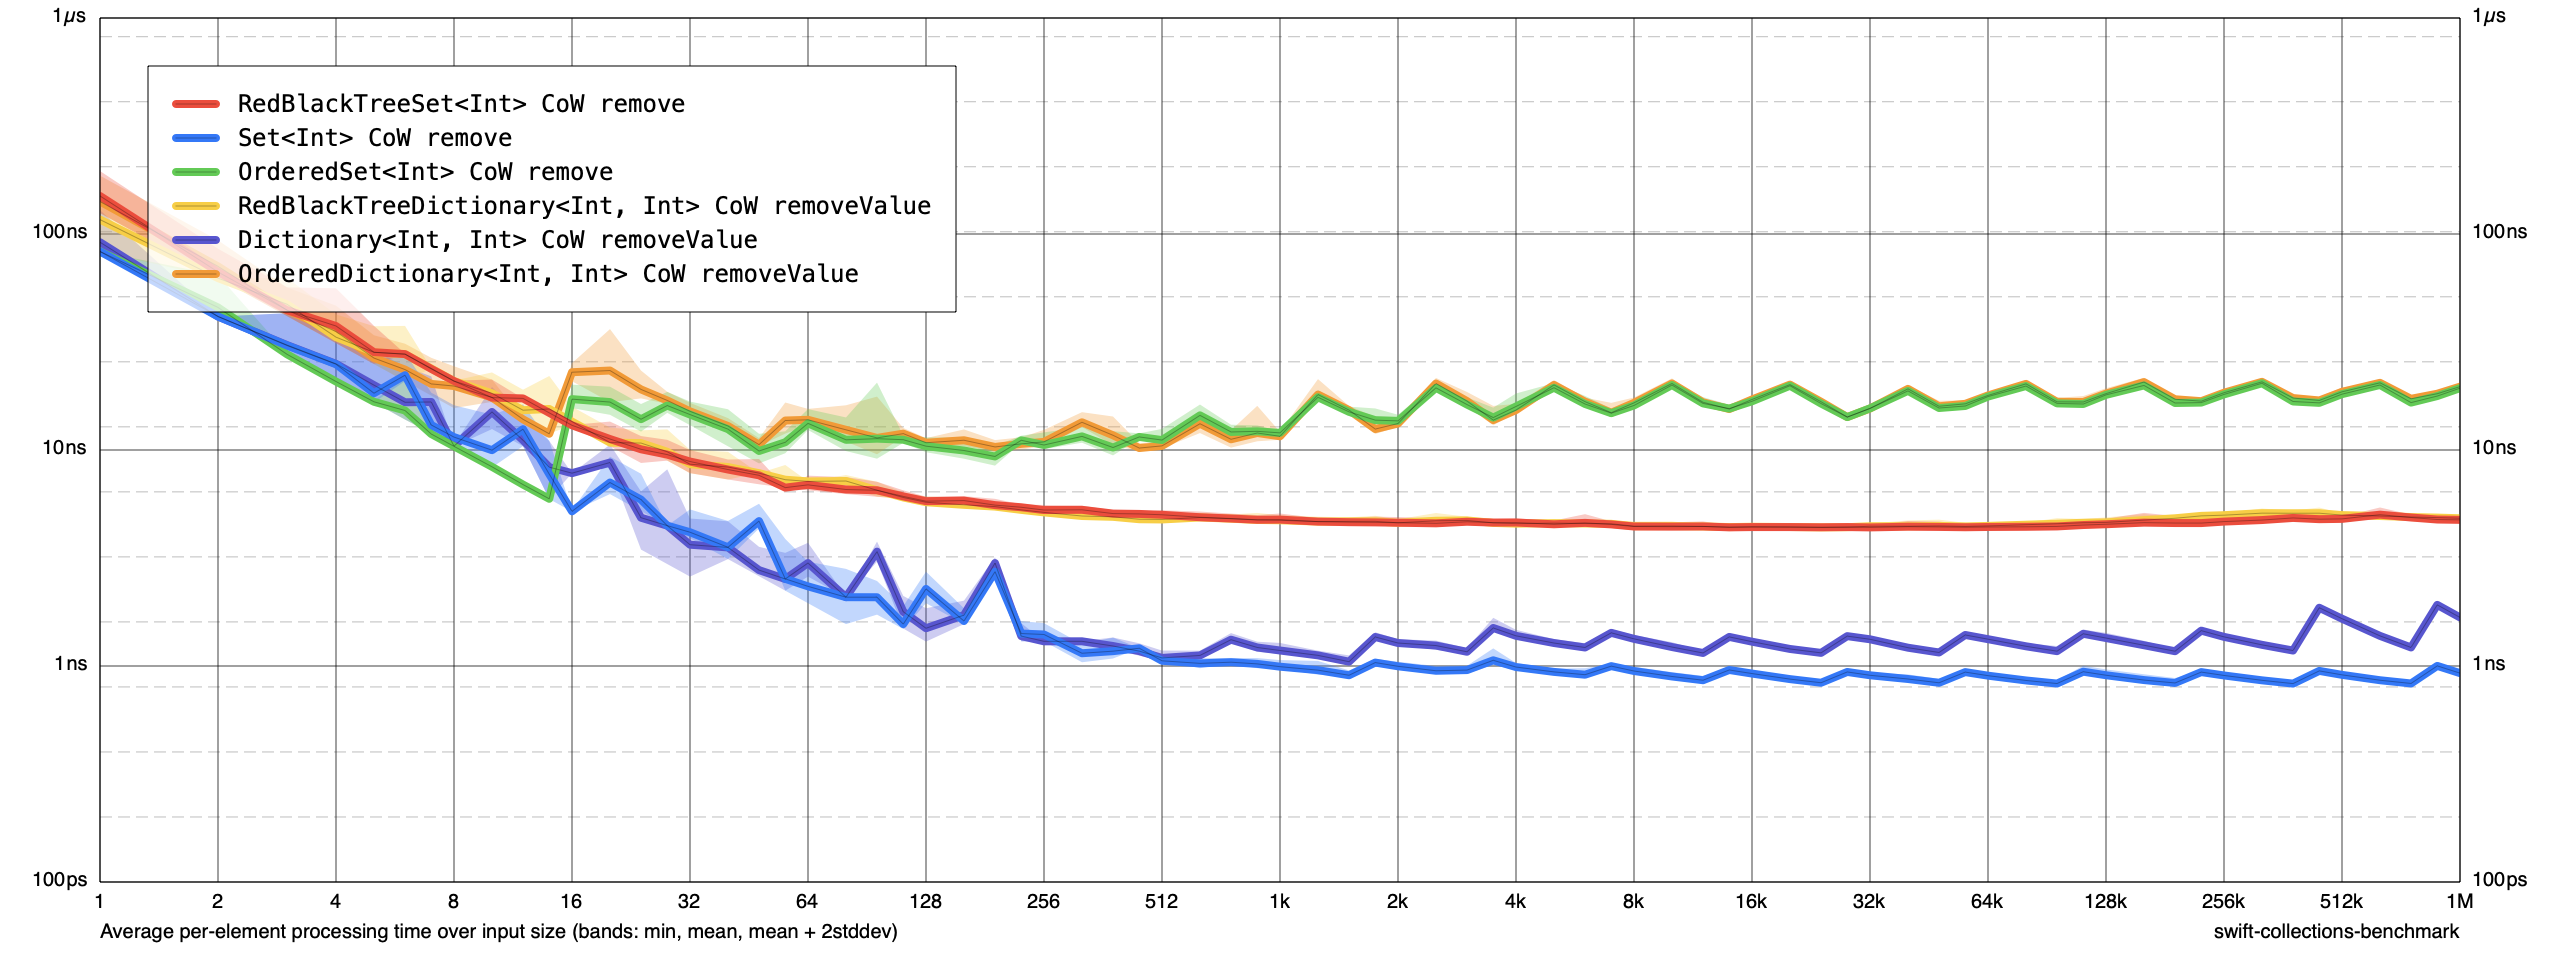
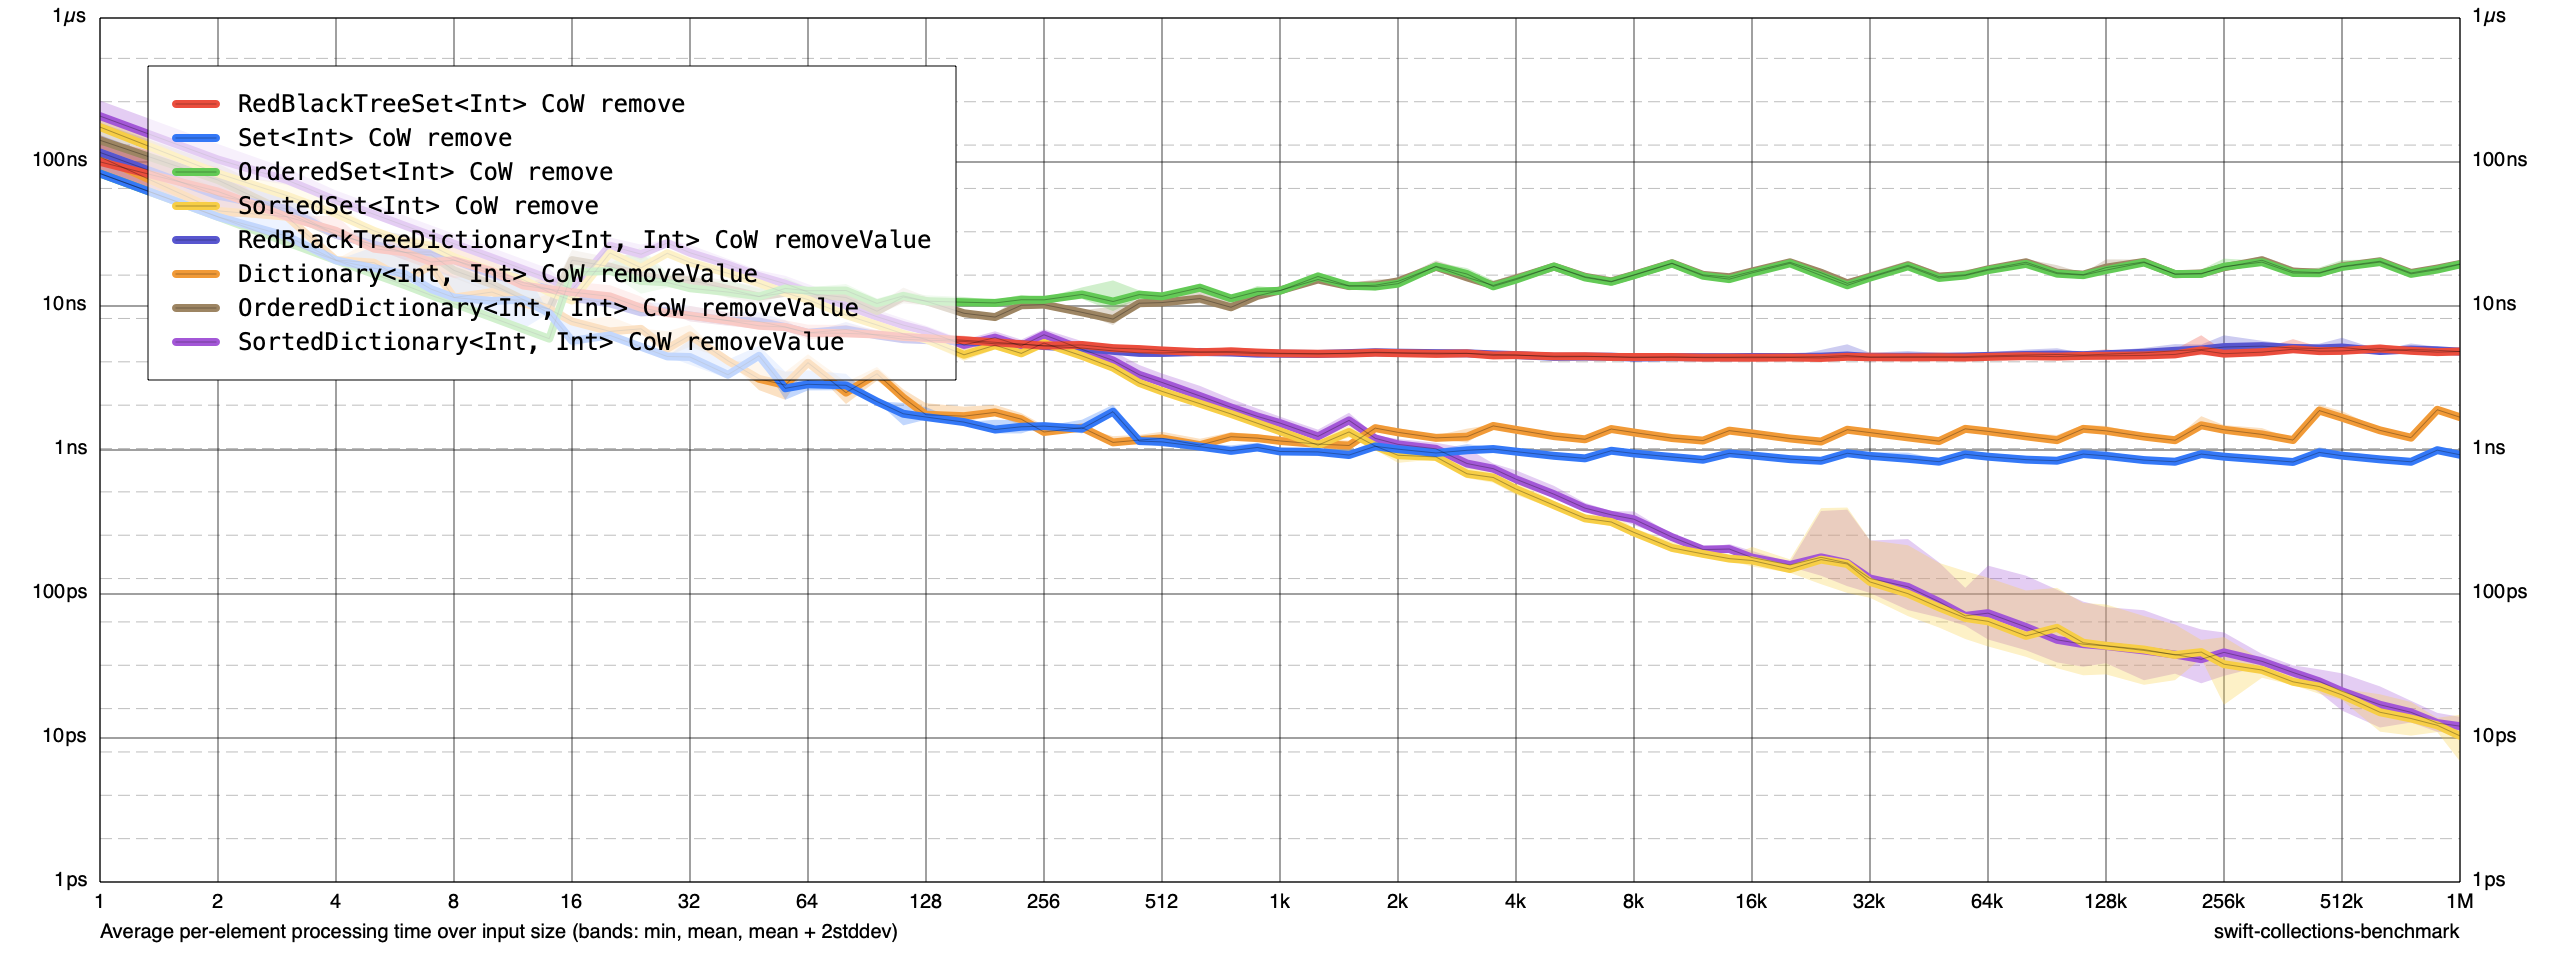
benchmark

diff --git a/Tests/CollectionBenchmarks/CollectionBenchmark10/main.swift b/Tests/CollectionBenchmarks/CollectionBenchmark10/main.swift
@@ -100,6 +100,35 @@ benchmark.add(
   }
 }
 
+benchmark.add(
+  title: "SortedSet<Int> CoW remove",
+  input: Int.self
+) { size in
+
+  return { timer in
+
+    let values = makeArray(size)
+    let target = size >> 1
+
+    var original = SortedSet<Int>()
+
+    for v in values {
+      original.insert(v)
+    }
+
+    timer.measure {
+
+      var copied = original
+
+      if size > 0 {
+        copied.remove(target)
+      }
+
+      blackHole(copied)
+    }
+  }
+}
+
 // MARK: - Dictionary CoW
 
 benchmark.add(
@@ -182,6 +211,35 @@ benchmark.add(
 
       if size > 0 {
         copied.removeValue(forKey: target)
+      }
+
+      blackHole(copied)
+    }
+  }
+}
+
+benchmark.add(
+  title: "SortedDictionary<Int, Int> CoW removeValue",
+  input: Int.self
+) { size in
+
+  return { timer in
+
+    let values = makeArray(size)
+    let target = size >> 1
+
+    var original = SortedDictionary<Int, Int>()
+
+    for v in values {
+      original[v] = v
+    }
+
+    timer.measure {
+
+      var copied = original
+
+      if size > 0 {
+        _ = copied.removeValue(forKey: target)
       }
 
       blackHole(copied)
